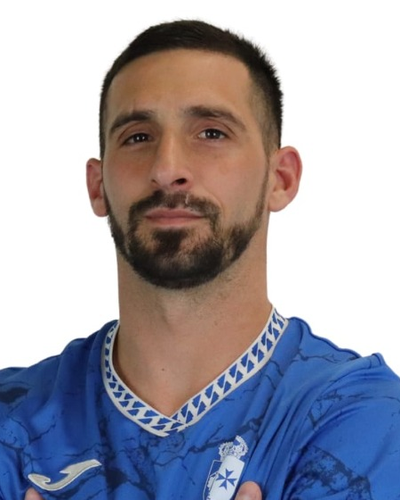
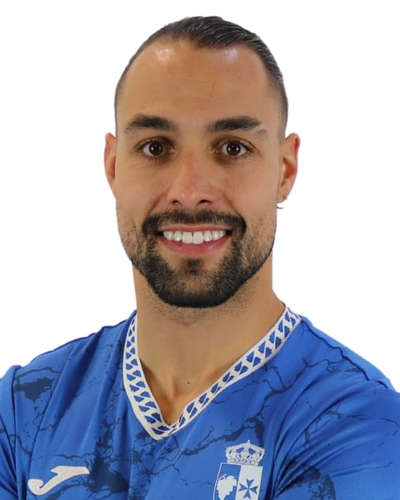
fix(players): optimizar encuadre facial centrado y de mayor tamano para Rubo (#9) y Kassim (#25)

diff --git a/update_rubo_kassim.ts b/update_rubo_kassim.ts
@@ -1,0 +1,30 @@
+import { createClient } from '@supabase/supabase-js';
+import * as dotenv from 'dotenv';
+import * as path from 'path';
+
+dotenv.config({ path: path.resolve(process.cwd(), '.env.local') });
+
+const supabaseUrl = process.env.NEXT_PUBLIC_SUPABASE_URL || 'https://slexyuklfyjufevzppsc.supabase.co';
+const supabaseKey = process.env.NEXT_PUBLIC_SUPABASE_ANON_KEY || 'eyJhbGciOiJIUzI1NiIsInR5cCI6IkpXVCJ9.eyJpc3MiOiJzdXBhYmFzZSIsInJlZiI6InNsZXh5dWtsZnlqdWZldnpwcHNjIiwicm9sZSI6ImFub24iLCJpYXQiOjE3ODQ5NjY2MTEsImV4cCI6MjEwMDU0MjYxMX0.KKhQaGadI3dXNGm1PTGfyhPVt6-7UCFpwmuneYWY2QA';
+
+const supabase = createClient(supabaseUrl, supabaseKey);
+
+async function run() {
+  const { error: e9 } = await supabase
+    .from('jugadores')
+    .update({ foto_url: '/players/dorsal_9_rubo.png' })
+    .eq('dorsal', 9);
+    
+  if (e9) console.error('Error updating Rubo:', e9);
+  else console.log('✓ Rubo (dorsal 9) updated with /players/dorsal_9_rubo.png');
+
+  const { error: e25 } = await supabase
+    .from('jugadores')
+    .update({ foto_url: '/players/dorsal_25_kassim.png' })
+    .eq('dorsal', 25);
+    
+  if (e25) console.error('Error updating Kassim:', e25);
+  else console.log('✓ Kassim (dorsal 25) updated with /players/dorsal_25_kassim.png');
+}
+
+run();

diff --git a/src/app/page.tsx b/src/app/page.tsx
@@ -51,7 +51,8 @@ const CD_VILLARALBO_SEED_PLAYERS: Omit<Jugador, 'id' | 'creado_en'>[] = [
   { nombre: 'Cristian Tomás Lupidio', dorsal: 19, demarcacion: 'Mediocentro', fecha_nacimiento: '1999-02-28', forma: 88, foto_url: '/players/dorsal_19_tomi.png' },
   { nombre: 'Miguel Blanco Merino', dorsal: 21, demarcacion: 'Interior', fecha_nacimiento: '2002-05-09', forma: 87, foto_url: '/players/dorsal_21_miguel_b.png' },
   { nombre: 'William', dorsal: 22, demarcacion: 'Delantero', fecha_nacimiento: '2001-11-04', forma: 89, foto_url: '/players/dorsal_22_william.png' },
-  { nombre: 'Raúl Muñoz Puelles', dorsal: 23, demarcacion: 'Defensa Lateral', fecha_nacimiento: '2001-06-19', forma: 88, foto_url: '/players/dorsal_23_raul_m.png' }
+  { nombre: 'Raúl Muñoz Puelles', dorsal: 23, demarcacion: 'Defensa Lateral', fecha_nacimiento: '2001-06-19', forma: 88, foto_url: '/players/dorsal_23_raul_m.png' },
+  { nombre: 'Kassim Moumouni', dorsal: 25, demarcacion: 'Defensa Central', fecha_nacimiento: '2006-01-10', forma: 100, foto_url: '/players/dorsal_25_kassim.png' }
 ];
 
 const SEED_TEAMS = [
